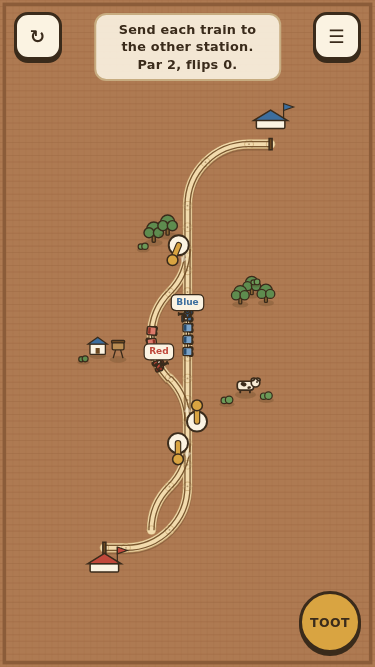
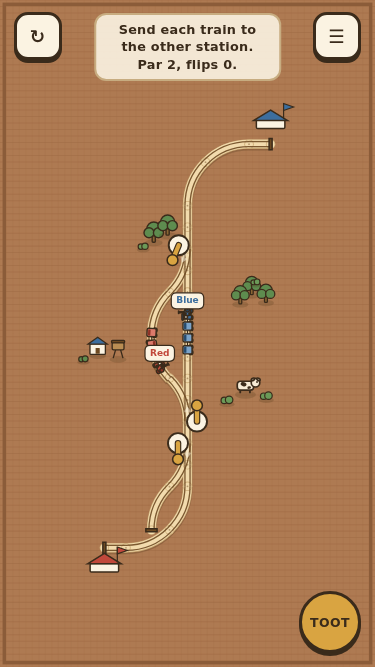
Whistlestop: a buffer stop on every open end, because the sim turns a train at every one
To the sim every open end IS a buffer: a train that reaches one turns round and
comes back, and there are two assertions on exactly that. Only the ends with a
station on them were ever DRAWN with a stop, so a dead end siding was a length
of track that stopped in the middle of the rug for no reason a child could see.
Swap's whole trap looked like an unfinished piece, and the crossing shot's
"the buffer stub reads as a loose piece" was the same fault from the other end.

drawBuffers walks openEnds and skips the station nodes, which drawStations
already caps. Counted before it went in: The First Switch 1 bare end, The
Crossing 4, The Passing Loop 0, Three Trains 1, Round and Round 0, Swap 1. The
rug must not lie about the rails.

ALL GATES PASSED, twelve of twelve, 16:31 UTC, first run, nothing rerun alone.
sim --test 175, lint OK, p2-swap reshot at 375x667 and opened.

Claude-Session: https://claude.ai/code/session_01CohA1CK6e5eCWUdrKWPpuM

Changed region(s): [[0.3813, 0.4198, 0.5573, 0.5697], [0.3813, 0.7796, 0.4107, 0.8096]]

diff --git a/satellites/whistlestop/index.html b/satellites/whistlestop/index.html
@@ -2414,6 +2414,7 @@ function paintTrackCache() {
     upto = eg;
   }
   drawTrack(c, G.st.g, upto);
+  drawBuffers(c, G.st.g);
   drawStations(c, G.st.g);
   TRACK.key = key;
 }
@@ -2432,6 +2433,31 @@ function stationPose(g, st) {
     + (nd.y - dsin(perp) * U - mcy) * (nd.y - dsin(perp) * U - mcy);
   if (out < inn) perp += DPI;
   return { nd: nd, perp: perp, x: nd.x + dcos(perp) * 0.92 * U, y: nd.y + dsin(perp) * 0.92 * U };
+}
+/* ⛔ every open end is a buffer to the SIM: a train that reaches one turns
+   round and comes back, and there are assertions on both of those. Only the
+   ends with a station on them were ever DRAWN with a buffer stop, so a dead
+   end siding, which is the whole trap in Swap, was a length of track that
+   stopped in the middle of the rug for no reason a child could see. The rug
+   must not lie about the rails. Station ends are skipped because drawStations
+   puts the same stop there, on top of its platform. */
+function drawBuffers(c, g) {
+  var ends = openEnds(g), i, k, skip = {};
+  for (k = 0; k < g.stations.length; k++) skip[g.stations[k].node] = 1;
+  c.strokeStyle = PAL.ink;
+  c.lineWidth = Math.max(1.5, ss(0.05 * U));
+  c.fillStyle = PAL.groove;
+  for (i = 0; i < ends.length; i++) {
+    var e = ends[i];
+    if (skip[e.id]) continue;
+    c.save();
+    c.translate(sx(e.x), sy(e.y));
+    c.rotate(e.h);
+    c.beginPath();
+    c.rect(-ss(0.07 * U), -ss(0.26 * U), ss(0.14 * U), ss(0.52 * U));
+    c.fill(); c.stroke();
+    c.restore();
+  }
 }
 function drawStations(c, g) {
   var i;

diff --git a/plans/whistlestop/HANDOFF-WHISTLESTOP.md b/plans/whistlestop/HANDOFF-WHISTLESTOP.md
@@ -16,7 +16,7 @@ inherits), then this file, then the design. Where they differ, this file wins; e
 - 2026-09-05 Fable: plan written. Nothing built. Next action: section 5, P0, step 1.
 - 2026-09-06 builder (layout pass, 14:29 to 14:55 UTC, shared tree, one gate lock): **the three layout faults from the morning report, shot BEFORE the gate this time.** (1) Upright, `rugRect` runs the rug past every screen edge (it stopped at 82% of the height with its sides already off, a band with a hundred pixels of floor under the loop) and `fitView` trims the pad to 0.4U; a 0.2U pad was tried, measured (the outermost curve's centreline 21 px from the edge at 412 wide, inside Android's back gesture strip) and taken back, because upright the fit is bound by the width and by the tree beside the loop, not by the loop, so the loop cannot get much bigger without cropping scenery. The extra height is now wool, not floor. (2) The whistle hangs on the tray card's bottom right corner (`body.tray-on`, set in `chromeFor`; centre 8 px inside the corner; measured 317..379 x 750..812 at 412x915 and 299..361 x 502..564 at 375x667, `elementFromPoint` at its centre is `btnWhistle`, the nearest tile ends 16 px left of it, no piece middle under any chrome). Without a tray it is the thumb corner at 14 px, and upright `measureChrome` measures its row into padB. (3) `drawTrains` keeps this frame's flag rects and lifts a flag that would land on one 22 px per row on a longer stem; the head on bump now shows 'Blue bumped' over 'Red bumped'. And the data change: The Crossing's red line is `['rep', 2, 'straight'], ['p', 'curveR'], ['p', 'straight']` after the crossing; stations 12 and 21, levers 4 and 18, blue train piece 15, solution 4, 18, 18; `--solve` The Crossing 3 flips, home 6.73 s, three stars; `--race` unchanged (red 2.33 s, blue 6.12 s); `--test` 164. Stamp 20260906e in all three places, lint green. **Gates:** `tools/check.js` `ALL GATES PASSED` twelve of twelve at 14:37 UTC (commit `31d59dec`) and again at 14:48 UTC after the pad went to 0.4U and every shot in `docs/shots/` was regenerated (`tools/shots.mjs`, 24 shots, all under 100 KB). **Opened:** `p3-412x915.png`, `p3-375x667.png`, `p1-loop-tall.png`, `p2-crossing-wide.png`, `p2-crossing-tall.png`, `p2-bump-wide.png`, `p2-bump-tall.png`. What I saw at 412x915: rug top to bottom, no floor; the whistle reads as a badge on the tray's corner; the loop about 78% of the width. Three faults, named: (a) the loop sits left of centre with 10 px on its left and 80 px between it and the tree, because the fit centres the scene bounds and the tree is the scene's right edge; (b) there are still 130 px of wool between the loop and the tray and 140 px above it, which is the price of a width bound fit on a 2.2:1 screen (Stephen's call in section 15 stands: fit the whole railway, or stop fitting and let them pinch); (c) the rug now has no visible edge or fringe anywhere upright, so it is a texture rather than an object. In the bump: both flags show; the upper flag's stem ran through the lower flag, so `drawTrains` now draws every stem before every flag (commit `a745d639`, `ALL GATES PASSED` again at 14:52 UTC, `p2-bump-wide.png` opened: the stem passes under 'Red bumped'; what is still wrong is that the lifted 'Blue bumped' flag covers the blue station's roof behind it, the steam huff has faded by the shutter, and the two trains are one knot at the crossing). In the crossing: Red's station is right and a little down, Blue's is top; it is two directions now but the drop is one straight, so it is subtle, and the two spurs are still mirror images. Next action: (i) try one more straight after the curve on the red line (station 13, everything after 12 shifts again, `--solve` and `--race` decide); (ii) the loop's left bias upright: centre the fit on the railway and let a prop push only the zoom, shot at 412x915 first; (iii) a lifted flag should step sideways as well as up when it would cover a station; (iv) Swap as its own shape. Hard stop was 15:30 UTC; everything here is committed.
 - 2026-09-06 builder (Fable review pass, 14:03 to 14:35 UTC, shared tree, four builders on one gate lock): **puzzles 3, 4 and 5 built as data** (The Passing Loop par 1, Three Trains par 3, Round and Round par 1), each proved by `sim.js --solve` (five rows, `WHISTLESTOP SOLVE OK`; the gate watched to fail on a copy with Round and Round's train sent the trailing way: `never  0  NO WIN  NOT THREE STARS`, exit 1). `sim.js --test` 164 assertions. Swap (puzzle 6) NOT built: a dead end siding cannot swap two trains (docs/DECISIONS.md), it needs its own shape. Visual fixes: the bump names the train at fault (flag says 'bumped', pink tint); the whistle shares the tray's bottom edge in portrait; the fit leans the railway toward the tray and the rug spans the play band; The Crossing's blue line runs up the rug so the stations are top right and bottom right. Stamp 20260906d in all three places, lint green. **Browser gates:** the first full `tools/check.js` was red on `build` (portrait tap on a piece picked nothing after the whistle and tray moved) and `layout` (the gate counted two puzzle cards). The whistle, tray and rug band changes were REVERTED unshot, the layout count rebased to five, and the third full run at 14:25 UTC is `ALL GATES PASSED`, twelve of twelve (`sim lint solve lap mutants boot build run share sound layout thumb`), commit `d00607d9` plus this one. **Still open from the report, untouched or reverted:** the whistle alone on the floor strip, the hundred pixel dead band above the tray, the crossing spurs' shapes. **Shot and OPENED (14:26 UTC):** `docs/shots/p2-crossing-wide.png` and `p2-crossing-tall.png`, after the blue line was turned to run up the rug. What I saw: Blue's station now sits top right above the crossing and Red's at the right end of the red line, so they are two heights rather than one corner, but they are still about sixty screen pixels apart on the same side, so the two destinations read as one neighbourhood. Three faults, named: (1) the blue spur now curves up and right and its buffer stops forty pixels short of the red main line, which reads as a near join; (2) the two spurs are mirror images at the same forty five degrees and still the same idea; (3) the two lever dots are the smallest things on the rug, smaller than the cow. Then `p2-bump-wide.png` and `p2-bump-tall.png` (14:27 UTC), OPENED: the fault marker works, a pink flag reading 'Blue bumped' over the blue engine; but Red's own 'Red bumped' flag is UNDER Blue's, so in a head on bump where both were moving only one word shows, and the knot of two trains and two flags the report named is still a knot; the steam huff had faded by the shutter. The marker answers the child's question only when one train was standing still. Next for the marker: stack the second flag one flag height higher when two flags overlap, or put the word on the goal line ('They met. Blue and Red were both moving.'). Proposed data change for the stations, not made because the browser gates could not be rerun in the window: bend the red line down after the crossing (`['rep', 2, 'straight'], ['p', 'curveR'], ['p', 'straight']` in place of `['rep', 3, 'straight']`), which puts Red's station bottom right and Blue's top right and costs every index after piece 11 one (stations 12 and 21, levers 4 and 18, blue train 15, solution pieces 4, 18, 18, the two hard coded piece numbers in the puzzle suite and `--race`). Next action: `flock -w 1800 /tmp/sws-gate.lock node tools/shots.mjs p2` then OPEN `docs/shots/p2-crossing-wide.png` and `p2-bump-wide.png` (the blue line now runs up the rug, the flag should say 'Red bumped' in pink at the bump) and name three faults; then the whistle and tray in portrait again, this time shot at 375x667 BEFORE the gate, with the tray kept two rows deep; then Swap as its own shape.
-- 2026-09-06 builder (fit centre, Swap, levers; 15:52 to 16:25 UTC, shared tree, one gate lock): **both fit steps, PUZZLE 6, and one fault off the section 15 list. Four commits, `46102157` `c9ee9a77` `6fc2dcfb` `da77976e`; nothing uncommitted.** (1) `fitView` centred `sceneBounds`, so one tree beside the loop dragged the railway left (ten pixels on the loop's left, eighty between it and the tree, the loop at 78% of the width). `sceneBounds` is split: `railBounds()` is the track and its platforms with NO scenery, and it is what the camera centres on; a prop pushes only the ZOOM, by taking the half extent from the railway's middle to whichever scene edge is further. The loop is dead centre at 412x915 and 375x667. (2) The Crossing runs TWO straights after the red curve; every index past piece 11 moved by one (stations 13 and 22, levers 4 and 19, blue train 16, solution 4, 19, 19); `--solve` still 6.73 s three stars, `--race` unchanged. (3) **Swap is built**, `id 5`, The Passing Loop's shape with a THIRD switch under the lower one choosing Red's station over a short dead end curve, and two curves at each end that swing the termini out in opposite directions. **Par is 2, not the plan's 4:** every constant lever setting over the three switches was searched and two flips is the floor, with TWO different two flip answers because either train may be the one that takes the loop; a four switch version with a second spur above the loop was built, measured and thrown away because no answer needed that lever (DECISIONS). Home in 9.53 s, three stars, nothing at all bumps. (4) The lever glyph was drawn in pure world units while `TAP_R` is 26 CSS px of screen, so in a puzzle the one thing you tap was the one thing that shrank; its scale is floored at `CONFIG.LEVER_MIN_PX` (20 CSS px across the base) with its world position untouched, so the tap test and `junctions()` are unchanged and the build screen is pixel identical. Stamp 20260906g in all three places, lint green. **Gates:** `tools/check.js` `ALL GATES PASSED`, twelve of twelve, FOUR times (15:50, 16:13, 16:18 and 16:22 UTC), every one a FIRST run with nothing rerun alone; output in section 13. **Shot and OPENED:** `p3-412x915.png`, `p3-375x667.png`, `p2-crossing-tall.png`, `p2-crossing-wide.png`, and the new `p2-swap-tall.png` and `p2-swappass-tall.png` (twice each, before and after the termini). What I saw at 412x915: the loop is horizontally centred at last, chrome clear, tray on wool, nothing in the music chip corner. Three faults there, named: (a) **the railway got SMALLER for it**, about 65% of the screen width where it was 78%, because a lone tree on the right and the house group on the left now push the zoom out symmetrically from the railway's middle instead of sliding the picture; that is the honest price of a centred fit with lopsided scenery and **the fix is the PROPS, not the camera**; (b) the props are unmotivated, a house, a tower and two bushes jammed within twenty pixels of the loop's top left while one tree floats a hundred and sixty pixels off to the right with nothing near it, and nothing faces anything; (c) the cow and two bushes stand INSIDE the loop where the cars sweep past, and the strip of wool below the tray (about 95 px) holds nothing. In Swap's card: the first version WAS a thread, a railway a hundred pixels across a 375 wide screen with a hand of wool either side, which is why the termini were curved out; after it, the railway fills 55% of the width and the two stations sit in opposite corners. Three faults left in that frame: the dead end curve has no buffer cap so the trap reads as an unfinished piece rather than a dead end; switches B and F sit thirty pixels apart on the spine so the lower two levers read as one cluster; and a red engine standing under a blue roof is the whole point of a swap but nothing on the card says so, so a child's first read is that the game put the train at the wrong station. In The Crossing: Blue's station is top and Red's is right and well down, which reads as two directions; still wrong are that the two spurs are mirror images at the same forty five degrees and the buffer stub at the end of Red's line reads as a loose piece. **The lever floor IS gated** (`test/layout.mjs`, a canvas reader, watched to fail at all five sizes with the floor taken out; section 13). **Next action, in order:** (i) the props, which are now the thing binding the zoom, so give `makeProps` a keep out band around `railBounds()` and place them in motivated pairs instead of scattering, then reshoot 412x915 and measure the loop's width as a fraction of the screen before and after; (iii) a buffer cap on the dead end curve, which is one draw call and closes Swap's worst read.
+- 2026-09-06 builder (fit centre, Swap, levers; 15:52 to 16:25 UTC, shared tree, one gate lock): **both fit steps, PUZZLE 6, and one fault off the section 15 list. Four commits, `46102157` `c9ee9a77` `6fc2dcfb` `da77976e`; nothing uncommitted.** (1) `fitView` centred `sceneBounds`, so one tree beside the loop dragged the railway left (ten pixels on the loop's left, eighty between it and the tree, the loop at 78% of the width). `sceneBounds` is split: `railBounds()` is the track and its platforms with NO scenery, and it is what the camera centres on; a prop pushes only the ZOOM, by taking the half extent from the railway's middle to whichever scene edge is further. The loop is dead centre at 412x915 and 375x667. (2) The Crossing runs TWO straights after the red curve; every index past piece 11 moved by one (stations 13 and 22, levers 4 and 19, blue train 16, solution 4, 19, 19); `--solve` still 6.73 s three stars, `--race` unchanged. (3) **Swap is built**, `id 5`, The Passing Loop's shape with a THIRD switch under the lower one choosing Red's station over a short dead end curve, and two curves at each end that swing the termini out in opposite directions. **Par is 2, not the plan's 4:** every constant lever setting over the three switches was searched and two flips is the floor, with TWO different two flip answers because either train may be the one that takes the loop; a four switch version with a second spur above the loop was built, measured and thrown away because no answer needed that lever (DECISIONS). Home in 9.53 s, three stars, nothing at all bumps. (4) The lever glyph was drawn in pure world units while `TAP_R` is 26 CSS px of screen, so in a puzzle the one thing you tap was the one thing that shrank; its scale is floored at `CONFIG.LEVER_MIN_PX` (20 CSS px across the base) with its world position untouched, so the tap test and `junctions()` are unchanged and the build screen is pixel identical. Stamp 20260906g in all three places, lint green. **Gates:** `tools/check.js` `ALL GATES PASSED`, twelve of twelve, FIVE times (15:50, 16:13, 16:18, 16:22 and 16:31 UTC), every one a first run with nothing rerun alone, every one a FIRST run with nothing rerun alone; output in section 13. **Shot and OPENED:** `p3-412x915.png`, `p3-375x667.png`, `p2-crossing-tall.png`, `p2-crossing-wide.png`, and the new `p2-swap-tall.png` and `p2-swappass-tall.png` (twice each, before and after the termini). What I saw at 412x915: the loop is horizontally centred at last, chrome clear, tray on wool, nothing in the music chip corner. Three faults there, named: (a) **the railway got SMALLER for it**, about 65% of the screen width where it was 78%, because a lone tree on the right and the house group on the left now push the zoom out symmetrically from the railway's middle instead of sliding the picture; that is the honest price of a centred fit with lopsided scenery and **the fix is the PROPS, not the camera**; (b) the props are unmotivated, a house, a tower and two bushes jammed within twenty pixels of the loop's top left while one tree floats a hundred and sixty pixels off to the right with nothing near it, and nothing faces anything; (c) the cow and two bushes stand INSIDE the loop where the cars sweep past, and the strip of wool below the tray (about 95 px) holds nothing. In Swap's card: the first version WAS a thread, a railway a hundred pixels across a 375 wide screen with a hand of wool either side, which is why the termini were curved out; after it, the railway fills 55% of the width and the two stations sit in opposite corners. Three faults left in that frame: the dead end curve has no buffer cap so the trap reads as an unfinished piece rather than a dead end; switches B and F sit thirty pixels apart on the spine so the lower two levers read as one cluster; and a red engine standing under a blue roof is the whole point of a swap but nothing on the card says so, so a child's first read is that the game put the train at the wrong station. In The Crossing: Blue's station is top and Red's is right and well down, which reads as two directions; still wrong are that the two spurs are mirror images at the same forty five degrees and the buffer stub at the end of Red's line reads as a loose piece. **The lever floor IS gated** (`test/layout.mjs`, a canvas reader, watched to fail at all five sizes with the floor taken out; section 13). **Next action, in order:** (i) the props, which are now the thing binding the zoom, so give `makeProps` a keep out band around `railBounds()` and place them in motivated pairs instead of scattering, then reshoot 412x915 and measure the loop's width as a fraction of the screen before and after; (iii) **DONE in this session:** `drawBuffers` puts a buffer stop on every open end and not just the ends with a station, because the sim turns a train at every one of them; six of the six puzzles had a bare end and The Crossing had four, so this also closes the crossing shot's 'the buffer stub reads as a loose piece'. What is left after it: the two spurs in The Crossing are still mirror images at the same forty five degrees, and switches B and F in Swap sit thirty pixels apart so the lower two levers read as one cluster.
 - 2026-09-06 Opus B: **DONE P3.** All four phases built and green. Twelve gates in `tools/check.js`, every one watched to fail, both columns in section 13. Twenty six screenshots opened with the Read tool; eleven real faults came out of them and are listed in section 13. Morning report in section 15, with puzzles 3 to 6 designed as data. Nothing is half finished.
 - 2026-09-06 Opus B: P0 DONE. Six gates green (`sim` 131 assertions, `lint`, `solve`, `lap`, `mutants` 13, `boot`), every one watched to fail, output pasted in section 13. Four of the thirteen mutations survived the first run and all four were holes in my own assertions; all four assertions rewritten. Next action: section 5, P1, step 1, VIEW and EDITOR in `index.html` (the rug, the tray, snapping with the klk, the chime, undo and redo, pan and zoom, the handles).
 

diff --git a/satellites/whistlestop/docs/DECISIONS.md b/satellites/whistlestop/docs/DECISIONS.md
@@ -123,3 +123,11 @@ end turn the line through ninety degrees in opposite directions and the
 footprint becomes 7.7 by 18.7, which is 2.43 to one and inside the rule three
 entries above. It also reads as a railway rather than a diagram: a straight run
 with a station swung out at each end of it, in opposite corners of the rug.
+
+**Every open end gets a buffer stop drawn on it, not just the ends with a station.**
+To the sim every open end IS a buffer: a train that reaches one turns round and
+comes back, and there are two assertions on exactly that. Only station ends were
+ever drawn with a stop, so a dead end siding was a length of track that stopped
+in the middle of the rug for no reason a child could see, and Swap's whole trap
+looked like an unfinished piece. Six of the six puzzles had at least one bare
+end and The Crossing had four. The rug must not lie about the rails.
